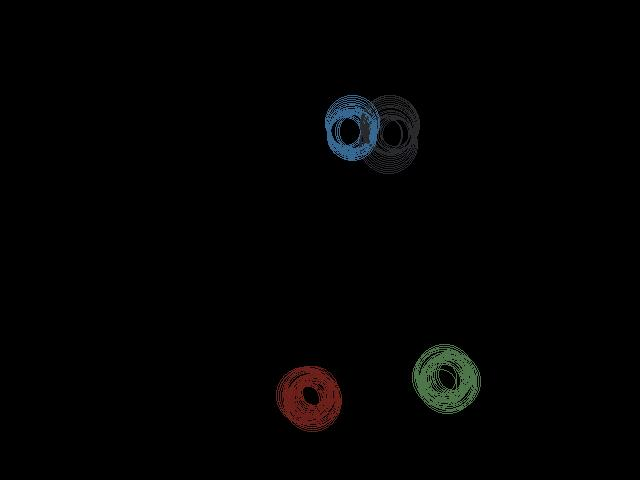
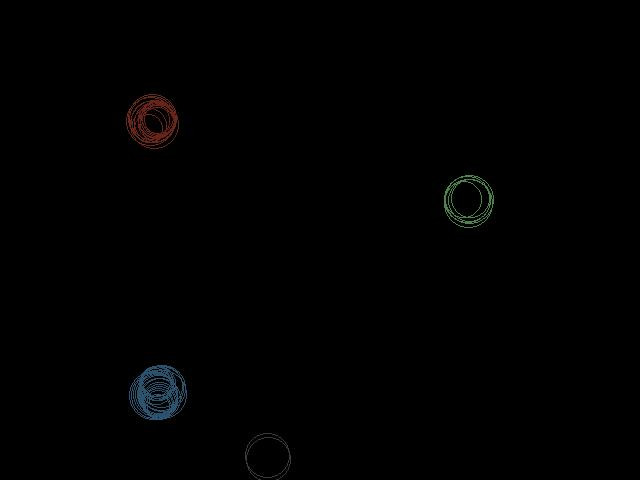
first working prototype, yey!

diff --git a/camera.py b/camera.py
@@ -7,7 +7,7 @@ import cv
 
 DEVICE = '/dev/video1'
 SIZE = (640, 480)
-radius_range = (15,30)
+radius_range = (12,25)
 
 capture = True
 screen = None
@@ -50,11 +50,11 @@ def camstream():
         while capture:
             # paint once for calibrating
             screen = camera.get_image(screen) # screen is pygame surface object
+            screen = pygame.transform.flip(screen, True, True)
             display.blit(screen, (0,0))
-            screen = pygame.transform.flip(screen, True, False)
-
             pygame.image.save(screen, 'image.jpg')
             pygame.display.flip() # actually update ...
+            screen = pygame.transform.flip(screen, True, False)
 
             for event in pygame.event.get():
                 if event.type == KEYDOWN or event.type == MOUSEBUTTONUP:
@@ -75,12 +75,13 @@ def camstream():
     while capture:
         screen_is_locked_manually = True
         screen = camera.get_image(screen) # screen is pygame surface object
+        screen = pygame.transform.flip(screen, True, True)
         display.blit(screen, (0,0))
         if not warped_surface.get_locked(): 
             display.blit(warped_surface, (0,0))
-        screen = pygame.transform.flip(screen, True, False)
         screen_is_locked_manually = False
         pygame.display.flip() # actually update ...
+        screen = pygame.transform.flip(screen, True, False)
 
         for event in pygame.event.get():
             if event.type == QUIT:
@@ -143,7 +144,7 @@ def ui():
                 warped_array = cv.warp(overlay, circle_coords)
 
                 scipy.misc.imsave('test/warped_array.png', warped_array)
-                warped_surface = pygame.image.load('test/warped_array.png')
+                warped_surface = pygame.transform.flip(pygame.image.load('test/warped_array.png'), True, False)
             else:
                 print('put the tiles back, man!')
 
@@ -154,47 +155,8 @@ def wait_for_mouseclick():
                 pygame.quit()
                 sys.exit()
             if event.type == pygame.MOUSEBUTTONUP:
-                return pygame.mouse.get_pos()
-
-"""
-def warp(img, edges):
-
-    my_time = 0
-
-    width = len(img[1])
-    height = len(img)
-
-    warped = pygame.Surface(SIZE, pygame.SRCALPHA)
-    warped.set_alpha(0)
-    pxarray = pygame.PixelArray(warped)
-
-    for x in range(width):
-        x_share = x / width
-        x_share_comp = 1 - x_share
-
-        y_start = edges['upper_left'][1] * x_share_comp + edges['upper_right'][1] * x_share
-        y_end = edges['lower_left'][1] * x_share_comp + edges['lower_right'][1] * x_share
-
-        for y in range(height):
-            y_share = y / height
-            y_share_comp = 1 - y_share
-
-            x_start = edges['upper_left'][0] * y_share_comp + edges['lower_left'][0] * y_share
-            x_end = edges['upper_right'][0] * y_share_comp + edges['lower_right'][0] * y_share
-
-            x_len = x_end - x_start
-            y_len = y_end - y_start
-
-            x_new = x_start + x_share * x_len
-            y_new = y_start + y_share * y_len
-            
-            start = time.time()         
-            pxarray[int(x_new), int(y_new)] = (img[y,x][0], img[y,x][1], img[y,x][2], 255)
-            my_time += time.time()-start
-    
-    print('Warp time finished, duration: ',my_time,'seconds \t\t <----')
-    return warped
-"""
+                pos = pygame.mouse.get_pos()
+                return pos
 
 if __name__ == '__main__':
     camstream()
